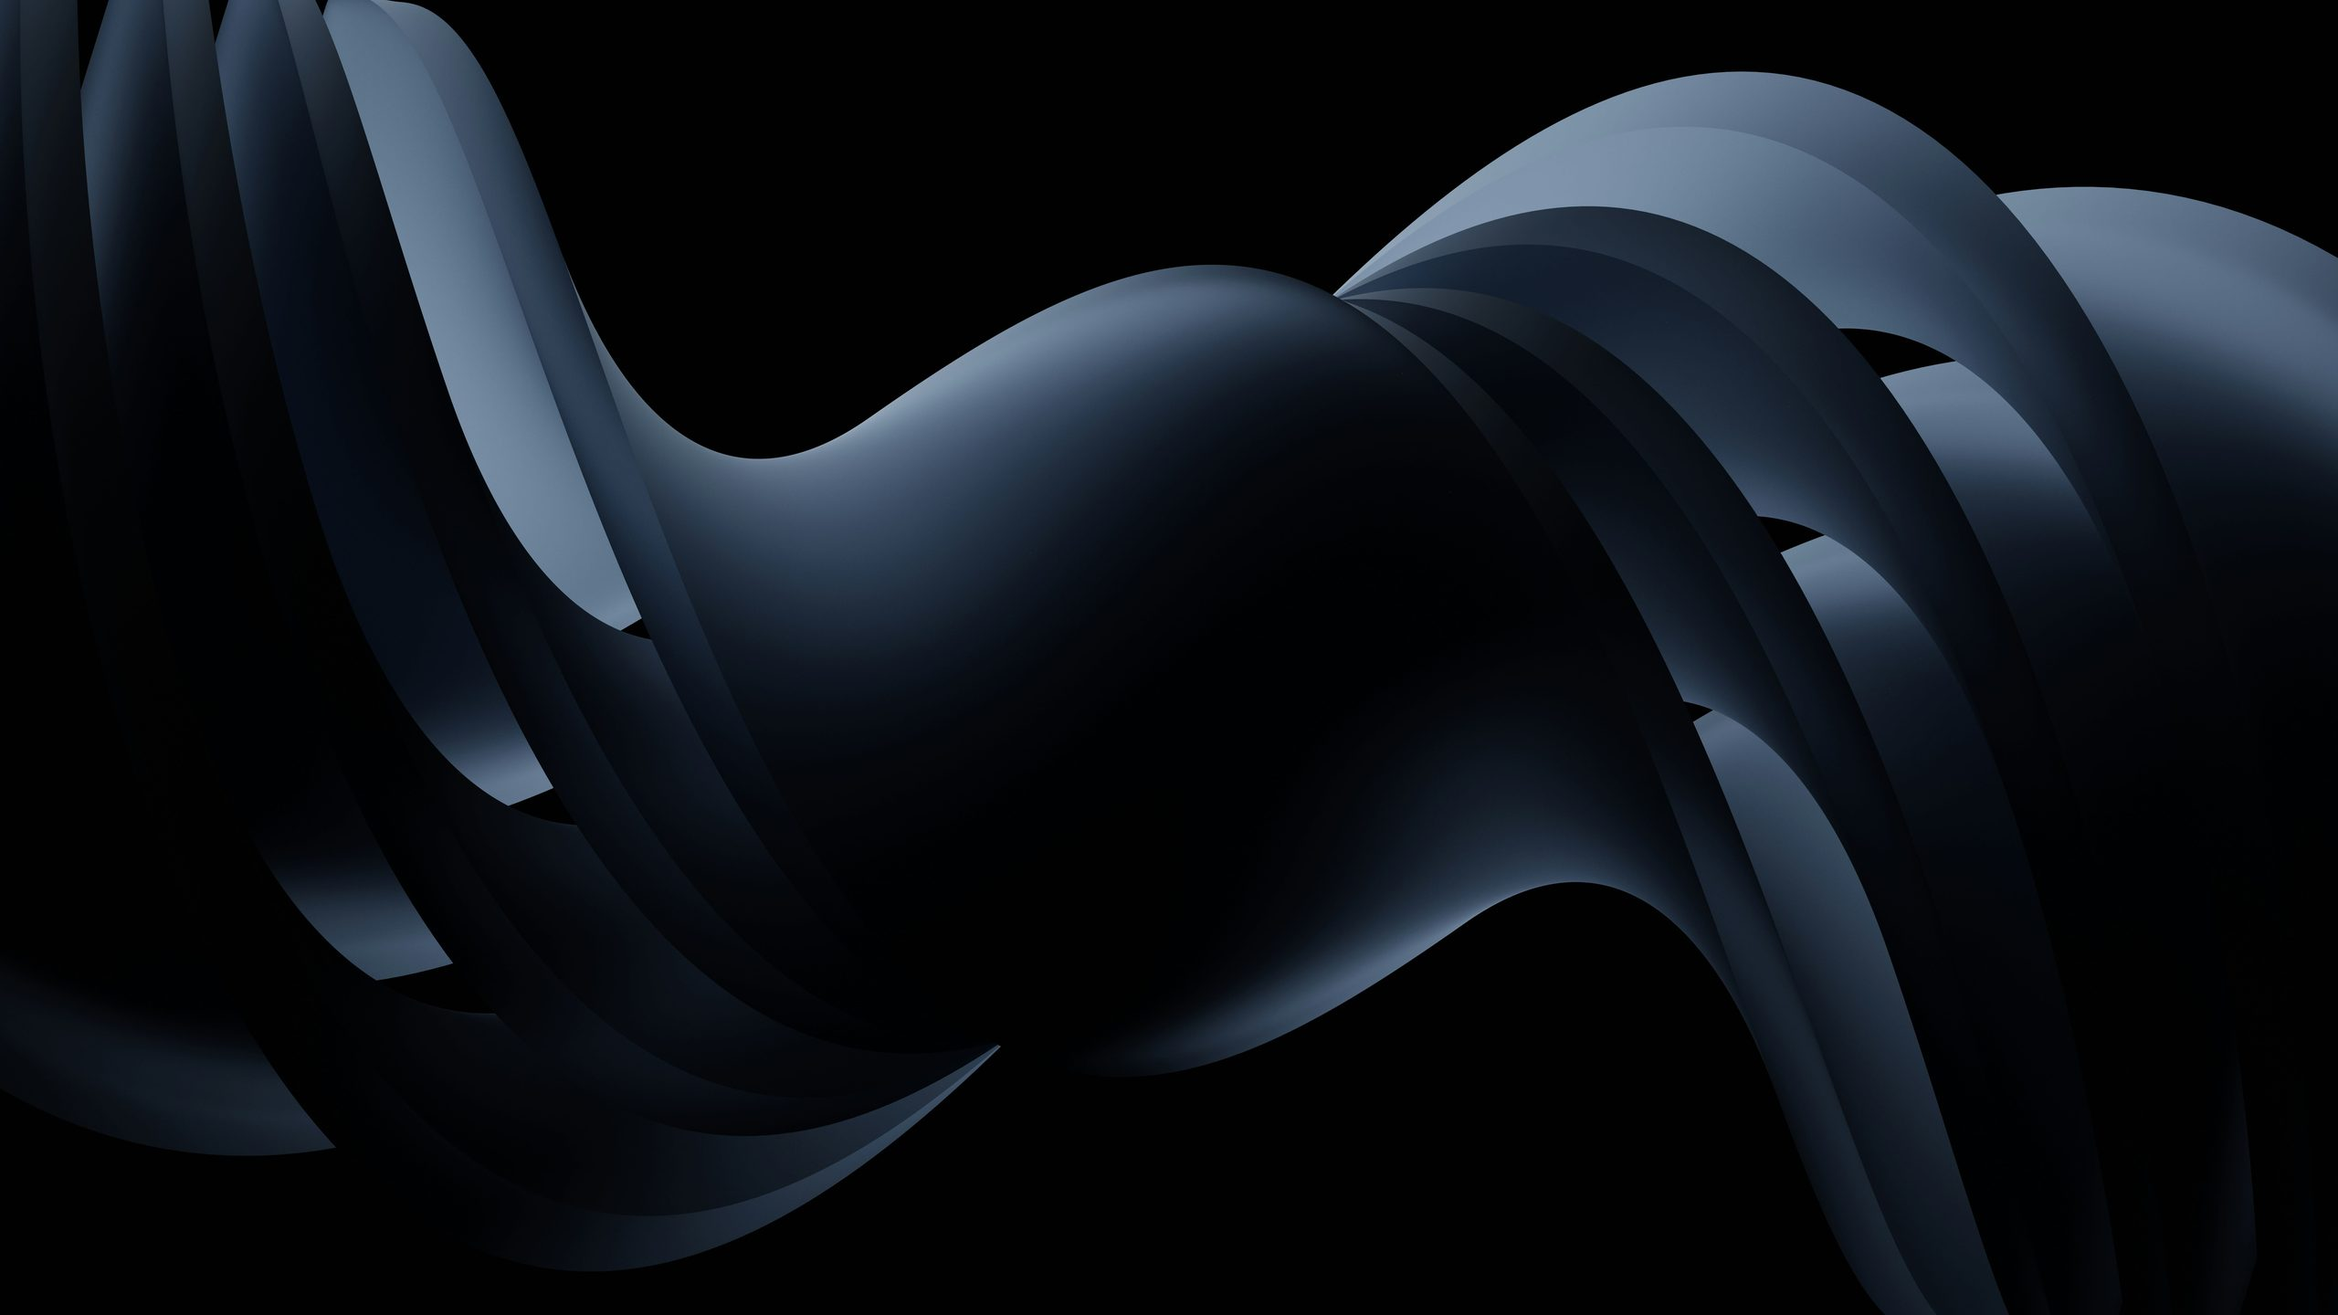
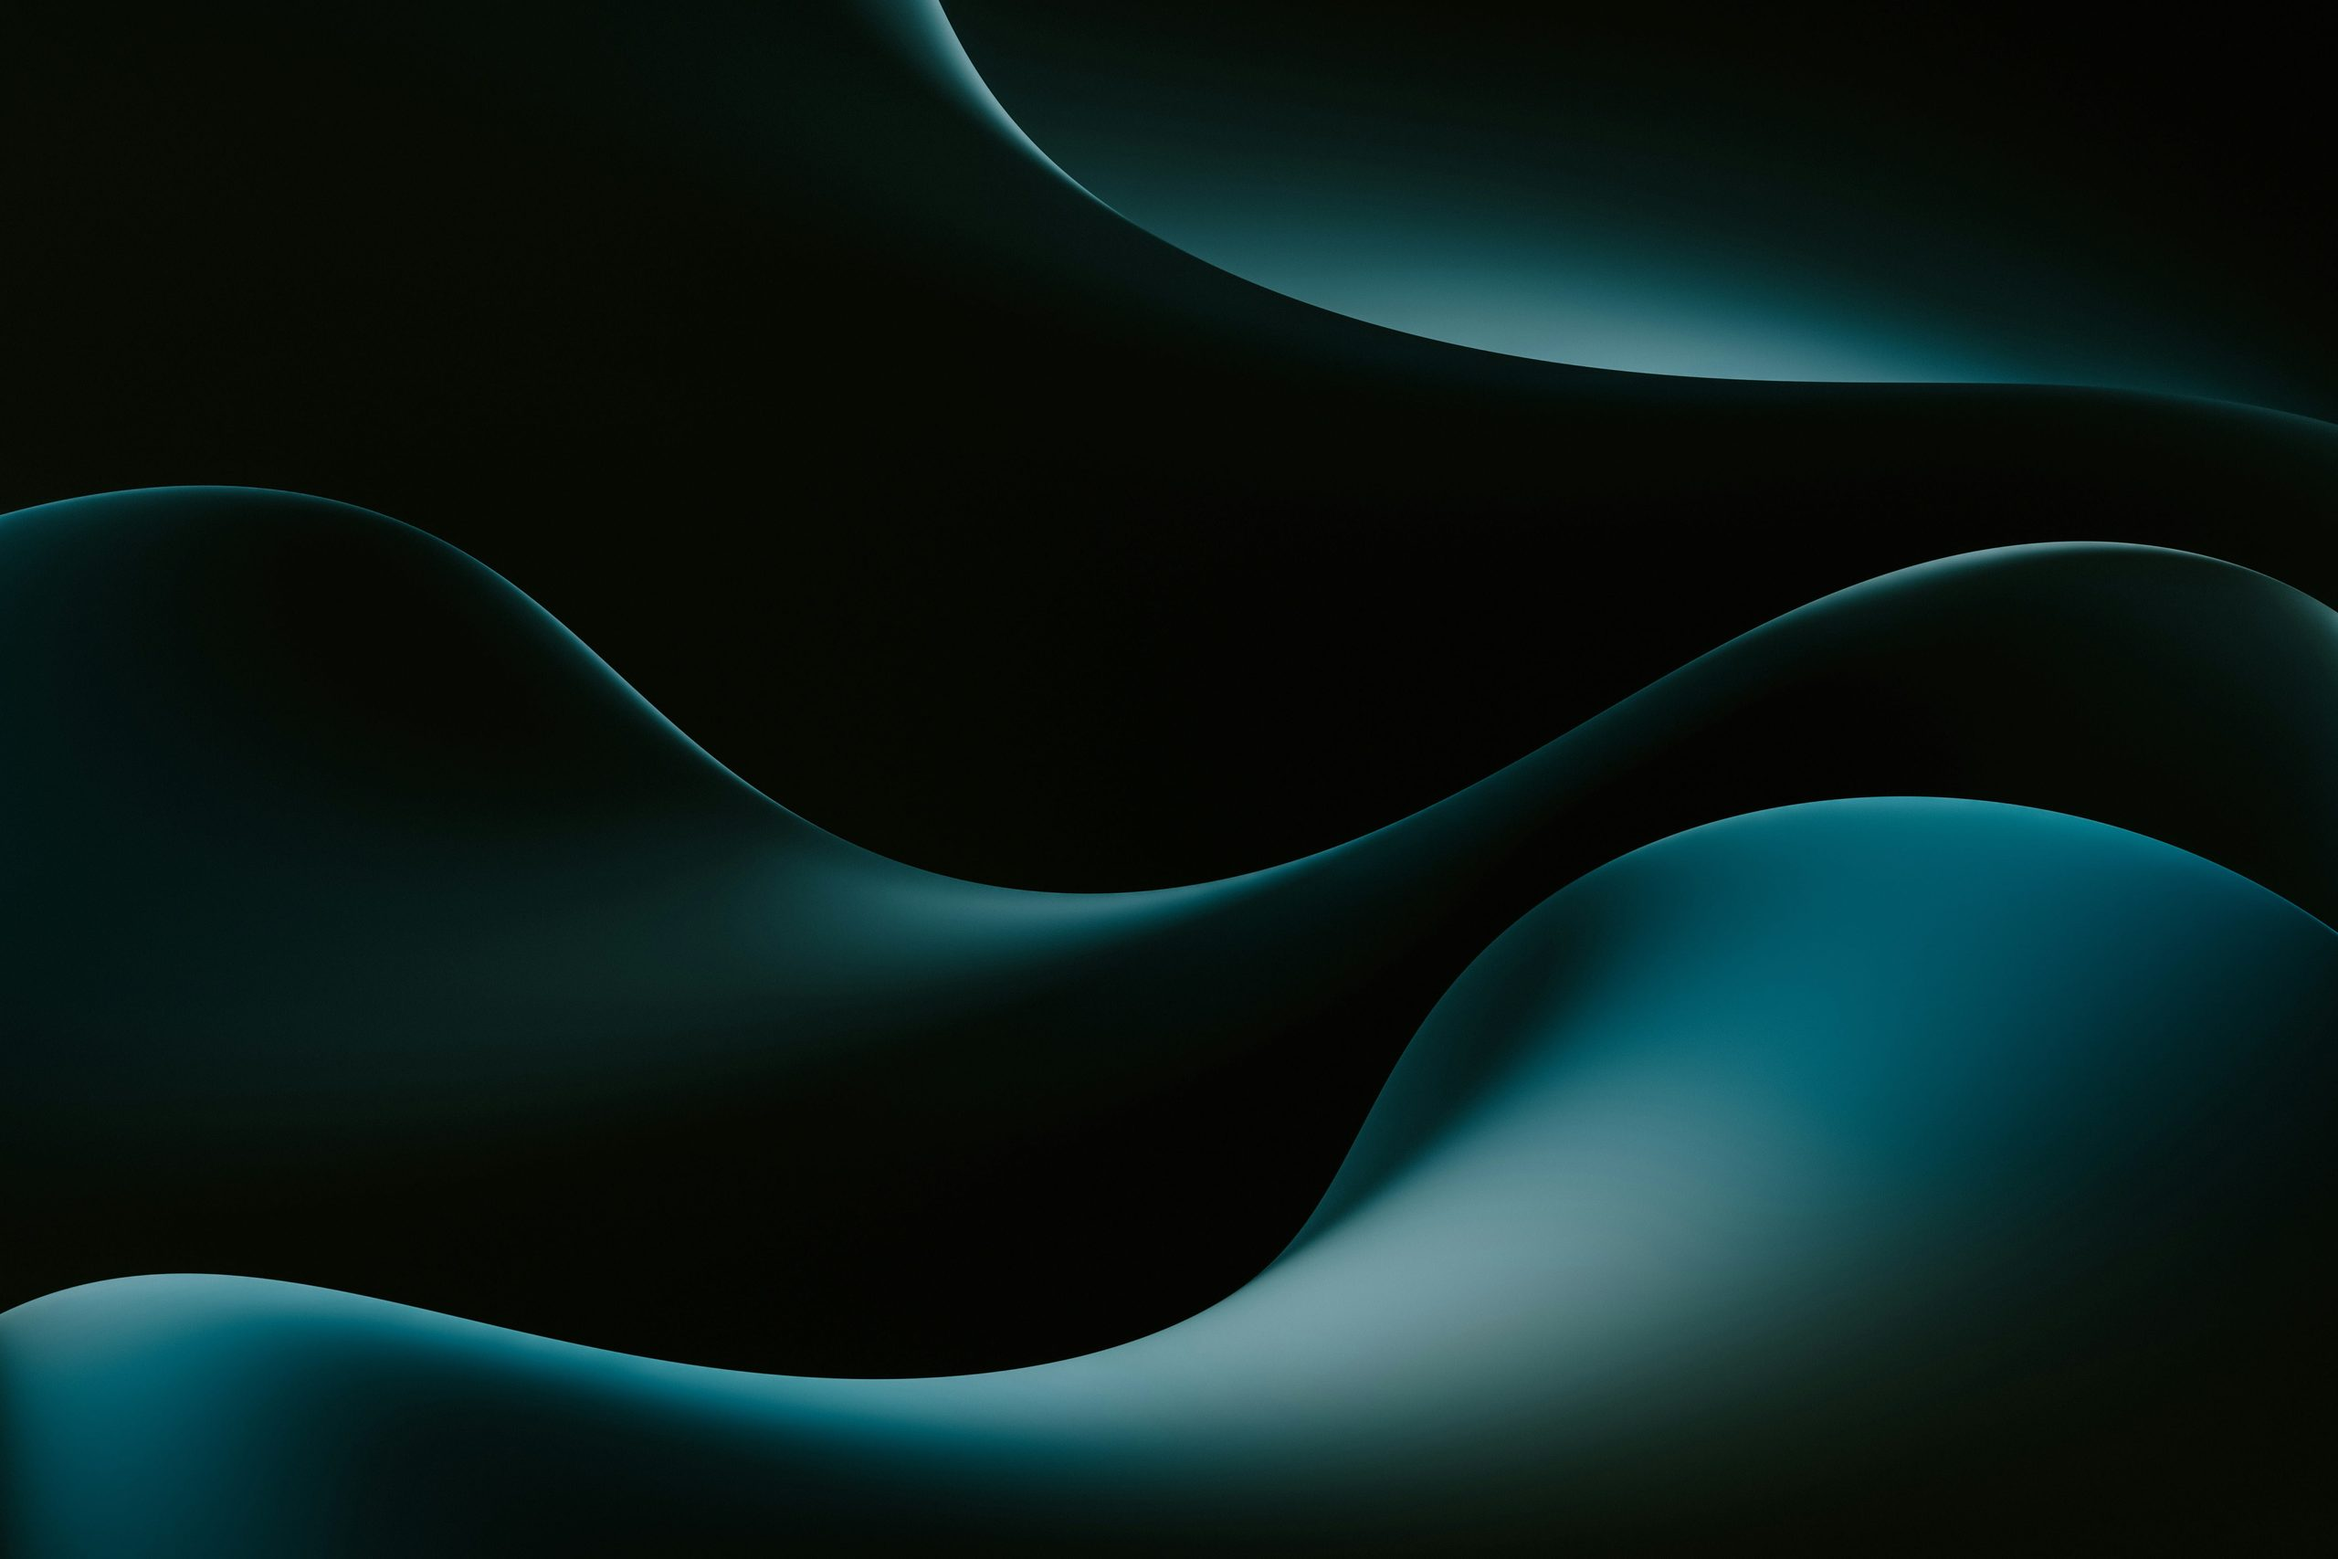
fix: eliminate mobile horizontal scroll; responsive nav, pill, pricing
Measured the overflow with the DevTools protocol at 320/360/390px and fixed
every source so scrollWidth equals the viewport at each width:

- #bg canvas was sized from window.innerWidth (includes the scrollbar) and
  CSS width:100%; switched to the content width (documentElement.clientWidth)
  and inset:0 so the fixed canvas never overhangs into a horizontal scroll
- pricing tiers blew out because the full-width button labels are nowrap:
  mobile grids now use minmax(0, 1fr) tracks and the pricing buttons wrap
- the result-card mock overflowed on a long mono token ("api-documentation");
  the anatomy grid is minmax(0,1fr) and the card scrolls internally
- nav tightened at <=480px (compact CTA, smaller brand, less padding) and
  the hero pill tracking reduced so it wraps cleanly
- html { overflow-x: clip } as a sticky-safe final guard (verified the nav
  still sticks)

Also re-downscaled the replaced bg2.jpg (6000x4000 -> 2560px, 860KB -> 128KB).

diff --git a/dashboard/assets/styles.css b/dashboard/assets/styles.css
@@ -36,7 +36,13 @@
 
 * { box-sizing: border-box; }
 
-html { -webkit-text-size-adjust: 100%; scroll-behavior: smooth; }
+html {
+  -webkit-text-size-adjust: 100%;
+  scroll-behavior: smooth;
+  /* Final guard against horizontal scroll on any device. `clip` (not hidden)
+     does not create a scroll container, so the sticky nav keeps working. */
+  overflow-x: clip;
+}
 
 body {
   margin: 0;
@@ -75,7 +81,9 @@ code {
    is lifted one layer up. The sticky nav is excluded so it keeps its own
    positioning. Band backgrounds are slightly translucent so the doodles stay
    visible across the whole page while cards remain solid and readable. */
-#bg { position: fixed; inset: 0; width: 100%; height: 100%; z-index: 0; pointer-events: none; }
+/* inset:0 (not width:100%) so the fixed canvas matches the content box and
+   never overhangs the vertical scrollbar into a horizontal scroll. */
+#bg { position: fixed; inset: 0; z-index: 0; pointer-events: none; }
 body > :not(#bg):not(.nav) { position: relative; z-index: 1; }
 
 /* Dashboard (app.html): the dark ribbon render in assets/bg2.jpg sits fixed
@@ -321,6 +329,7 @@ html.js .reveal.in {
 .result-card {
   font-family: var(--mono); font-size: 13.5px; line-height: 1.9;
   background: var(--surface-soft); border: 1px solid var(--hairline); padding: 24px 28px;
+  overflow-x: auto; /* long mono tokens scroll inside the card, never the page */
 }
 .result-card .hr { border-top: 1px solid var(--hairline-strong); margin: 10px 0; }
 .result-card .row { display: flex; gap: 16px; }
@@ -499,12 +508,15 @@ input:focus, textarea:focus { outline: none; border-color: var(--ink); }
 @media (max-width: 980px) {
   .hero .wrap { grid-template-columns: 1fr; gap: 48px; }
   .hero h1 { font-size: 46px; }
-  .anatomy { grid-template-columns: 1fr; gap: 40px; }
+  .anatomy { grid-template-columns: minmax(0, 1fr); gap: 40px; }
   .stats .wrap { grid-template-columns: repeat(2, 1fr); }
   .footer .cols { grid-template-columns: 1fr 1fr; }
 }
 @media (max-width: 760px) {
-  .grid-3, .grid-2, .tiers, .dash-grid { grid-template-columns: 1fr; }
+  /* minmax(0, 1fr), not 1fr: a 1fr track can't shrink below its content's
+     min-content, so a nowrap child (e.g. an uppercase button label) would
+     blow the track past the viewport. minmax(0, …) lets the track shrink. */
+  .grid-3, .grid-2, .tiers, .dash-grid { grid-template-columns: minmax(0, 1fr); }
   h1, .hero h1 { font-size: 36px; }
   h2 { font-size: 30px; }
   .cta-band h2 { font-size: 30px; }
@@ -519,9 +531,20 @@ input:focus, textarea:focus { outline: none; border-color: var(--ink); }
   .terminal-body { min-height: 0; }
   .footer .cols { grid-template-columns: 1fr; gap: 28px; }
   .stats .wrap { grid-template-columns: 1fr; }
+  /* Full-width pricing buttons may wrap their label rather than force the
+     tier wider than the screen. */
+  .tier .btn { white-space: normal; height: auto; min-height: 48px; padding: 12px 18px; line-height: 1.3; }
+  /* The hero pill reads as one tidy block; tighten tracking so it wraps
+     gracefully instead of straining the layout. */
+  .hero-pill { font-size: 11px; letter-spacing: 1px; align-items: flex-start; }
+  .hero-pill .dot { margin-top: 4px; flex-shrink: 0; }
 }
 @media (max-width: 480px) {
   /* Keep one clear action in the nav; sign-in stays available in the footer
      and through the primary CTA. */
   .nav .right .btn-text { display: none; }
+  .nav .wrap { padding: 0 16px; gap: 8px; }
+  .brand { font-size: 14px; gap: 8px; }
+  .nav .btn-primary.btn-sm { padding: 0 12px; font-size: 10.5px; letter-spacing: 0.5px; }
+  .wrap { padding: 0 18px; }
 }

diff --git a/dashboard/assets/bg.js b/dashboard/assets/bg.js
@@ -139,12 +139,14 @@ export function initBackground() {
   }
 
   function resize() {
-    width = window.innerWidth;
+    // Use the content width (excludes the scrollbar). window.innerWidth would
+    // include it, making the fixed canvas a few px wider than the viewport and
+    // forcing a horizontal scrollbar. Display size is left to CSS (#bg is
+    // width:100%); we only size the backing store here.
+    width = document.documentElement.clientWidth || window.innerWidth;
     height = window.innerHeight;
     canvas.width = Math.round(width * dpr);
     canvas.height = Math.round(height * dpr);
-    canvas.style.width = `${width}px`;
-    canvas.style.height = `${height}px`;
     ctx.setTransform(dpr, 0, 0, dpr, 0, 0);
     seed();
   }
@@ -152,8 +154,8 @@ export function initBackground() {
   let mouseX = 0;
   let mouseY = 0;
   window.addEventListener('mousemove', function (event) {
-    mouseX = (event.clientX / window.innerWidth - 0.5) * 2;
-    mouseY = (event.clientY / window.innerHeight - 0.5) * 2;
+    mouseX = (event.clientX / width - 0.5) * 2;
+    mouseY = (event.clientY / height - 0.5) * 2;
   }, { passive: true });
 
   function drawLine(line, time, scroll) {
